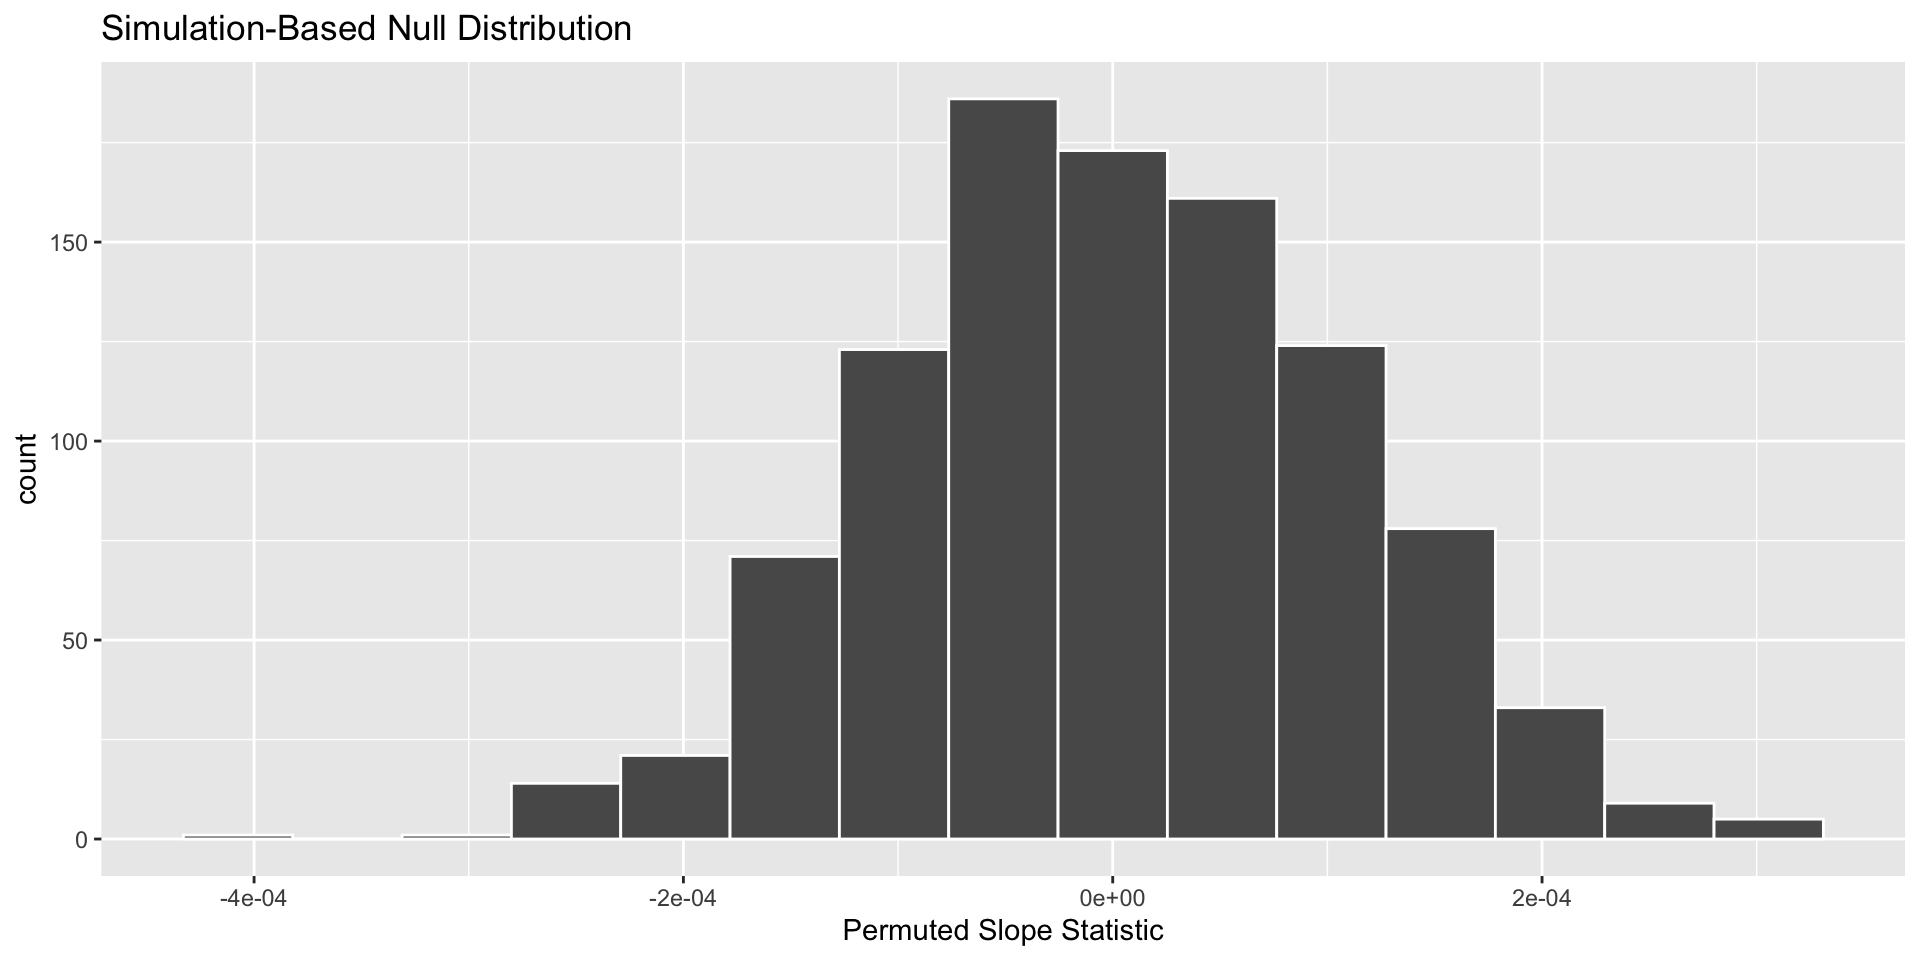
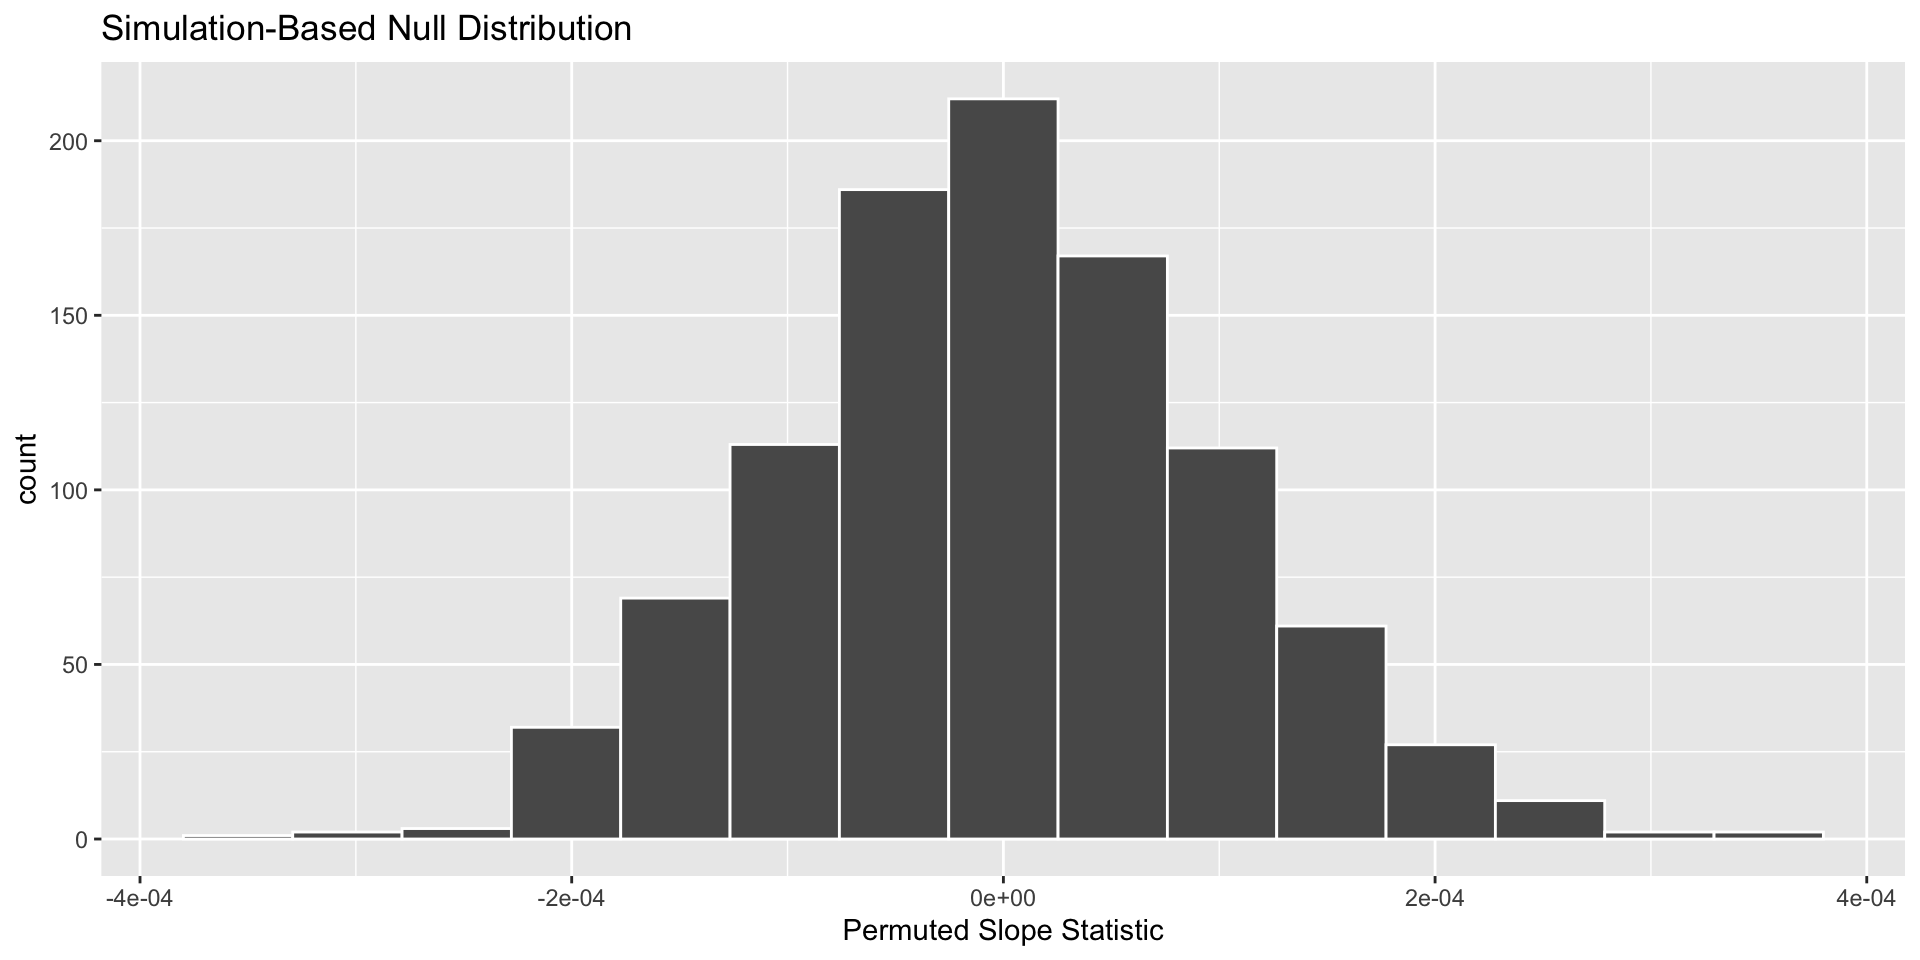
week 7 day 2 slides

diff --git a/docs/slides/week7-day2.html b/docs/slides/week7-day2.html
@@ -209,35 +209,41 @@
 <div class="column" style="width:30%;">
 <div class="fragment">
 <p><strong>Week 8</strong></p>
+<div class="small">
 <ul>
-<li>Learn about hypothesis testing for SLR &amp; MLR</li>
-<li>Compare “visual” model selection with p-value model selection</li>
+<li>Dig deeper into model conditions</li>
+<li>Learn about One-Way ANOVA</li>
+<li>Compare “visual” model selection with p-value model selection (Stat Critique #2)</li>
 </ul>
+</div>
 </div>
 </div><div class="column" style="width:30%;">
 <div class="fragment">
 <p><strong>Week 9</strong></p>
+<div class="small">
 <ul>
-<li>Learn about one-way ANOVA</li>
-<li>Get started on first portion of Final Project</li>
+<li>Learn about simulation-based and theory-based inference for one-way ANOVA</li>
+<li>First draft of Final Project</li>
 </ul>
+</div>
 </div>
 </div><div class="column" style="width:30%;">
 <div class="fragment">
 <p><strong>Week 10</strong></p>
+<div class="small">
 <ul>
 <li>Learn about two-way ANOVA</li>
-<li>Finish Final Project</li>
+<li>Finish Final Project (poster)</li>
 </ul>
+</div>
 </div>
 </div></div>
 </section>
 <section id="upcoming-deadlines" class="slide level2">
 <h2>Upcoming Deadlines</h2>
 <ul>
-<li>Lab 6 revisions are due on Wednesday (by midnight)</li>
-<li>Statistical Critique 2 is due next Monday (at 5pm)</li>
-<li>Final revisions on <strong>all</strong> assignments will be accepted until Sunday, March 17</li>
+<li>Lab 4 revisions are due on Friday (May 16)</li>
+<li>Lab 3 second revisions are due on Friday (May 16)</li>
 </ul>
 <div class="callout callout-note callout-titled callout-style-default">
 <div class="callout-body">
@@ -418,24 +424,30 @@
 <!-- add slides about HT decisions -->
 </div>
 </section>
-<section id="section-4" class="slide level2">
-<h2></h2>
-<div style="font-size: 3em; color: #000000;">
-<p>Your turn!</p>
-</div>
-<div style="font-size: 1.5em; color: #000000;">
-<p><strong>What is one similarity and one difference between</strong></p>
-</div>
+<section id="what-is-one-similarity-and-one-difference-between-a-permutation-distribution-and-a-bootstrap-distribution" class="slide level2">
+<h2>What is one similarity and one difference between a permutation distribution and a bootstrap distribution?</h2>
 <div class="columns">
 <div class="column" style="width:45%;">
-<div style="font-size: 1.5em; color: #76b5c5;">
-<p>a permutation distribution</p>
+<div style="font-size: 1.5em;">
+<p>Similarity</p>
+</div>
+<div class="small">
+<p>Distributions of sample statistics</p>
+<p>Use resampling to see variability</p>
+<p>Approximate a sampling distribution</p>
+<p>Use observed data</p>
 </div>
 </div><div class="column" style="width:5%;">
 
 </div><div class="column" style="width:45%;">
-<div style="font-size: 1.5em; color: #e28743;">
-<p>a bootstrap distribution</p>
+<div class="fragment">
+<div style="font-size: 1.5em;">
+<p>Difference</p>
+</div>
+<div class="small">
+<p>Permutation distributions assume <span class="math inline">\(H_0\)</span> is true</p>
+<p>Bootstrapping resamples with replacement</p>
+</div>
 </div>
 </div></div>
 </section>
@@ -451,7 +463,7 @@
 <p><code>stem_dry_mass</code>: a number denoting the dry mass of the stem in grams</p>
 </div></div>
 </section>
-<section id="section-5" class="slide level2">
+<section id="section-4" class="slide level2">
 <h2></h2>
 
 <img data-src="week7-day2_files/figure-revealjs/seedlings-slr-1.png" width="960" class="r-stretch"><div class="fragment">
@@ -541,30 +553,15 @@
 </div></div>
 </div>
 </section>
-<section id="dont-worry" class="slide level2">
-<h2>Don’t worry,</h2>
-<p><code>infer</code> will let you know if you missed something!</p>
+<section id="step-4-calculate-your-statistics" class="slide level2">
+<h2>Step 4: Calculate your statistics!</h2>
 <div class="cell">
 <div class="sourceCode cell-code" id="cb4"><pre class="sourceCode numberSource r number-lines code-with-copy"><code class="sourceCode r"><span id="cb4-1"><a></a>hbr_maples <span class="sc">%&gt;%</span> </span>
 <span id="cb4-2"><a></a>  <span class="fu">specify</span>(<span class="at">response =</span> stem_dry_mass,</span>
 <span id="cb4-3"><a></a>          <span class="at">explanatory =</span> stem_length) <span class="sc">%&gt;%</span> </span>
-<span id="cb4-4"><a></a>  <span class="fu">generate</span>(<span class="at">reps =</span> <span class="dv">1000</span>, <span class="at">type =</span> <span class="st">"permute"</span>)</span></code><button title="Copy to Clipboard" class="code-copy-button"><i class="bi"></i></button></pre></div>
-</div>
-<p><br></p>
-<pre><code>Error: Permuting should be done only when doing independence hypothesis test. See `hypothesize()`.
-In addition: Warning message:
-You have given `type = "permute"`, but `type` is expected to be `"bootstrap"`.
-This workflow is untested and the results may not mean what you think they mean. </code></pre>
-</section>
-<section id="step-4-calculate-your-statistics" class="slide level2">
-<h2>Step 4: Calculate your statistics!</h2>
-<div class="cell">
-<div class="sourceCode cell-code" id="cb6"><pre class="sourceCode numberSource r number-lines code-with-copy"><code class="sourceCode r"><span id="cb6-1"><a></a>hbr_maples <span class="sc">%&gt;%</span> </span>
-<span id="cb6-2"><a></a>  <span class="fu">specify</span>(<span class="at">response =</span> stem_dry_mass,</span>
-<span id="cb6-3"><a></a>          <span class="at">explanatory =</span> stem_length) <span class="sc">%&gt;%</span> </span>
-<span id="cb6-4"><a></a>  <span class="fu">hypothesize</span>(<span class="at">null =</span> <span class="st">"independence"</span>) <span class="sc">%&gt;%</span> </span>
-<span id="cb6-5"><a></a>  <span class="fu">generate</span>(<span class="at">reps =</span> <span class="dv">1000</span>, <span class="at">type =</span> <span class="st">"permute"</span>) <span class="sc">%&gt;%</span> </span>
-<span id="cb6-6"><a></a>  <span class="fu">calculate</span>(<span class="at">stat =</span> <span class="st">"slope"</span>) </span></code><button title="Copy to Clipboard" class="code-copy-button"><i class="bi"></i></button></pre></div>
+<span id="cb4-4"><a></a>  <span class="fu">hypothesize</span>(<span class="at">null =</span> <span class="st">"independence"</span>) <span class="sc">%&gt;%</span> </span>
+<span id="cb4-5"><a></a>  <span class="fu">generate</span>(<span class="at">reps =</span> <span class="dv">1000</span>, <span class="at">type =</span> <span class="st">"permute"</span>) <span class="sc">%&gt;%</span> </span>
+<span id="cb4-6"><a></a>  <span class="fu">calculate</span>(<span class="at">stat =</span> <span class="st">"slope"</span>) </span></code><button title="Copy to Clipboard" class="code-copy-button"><i class="bi"></i></button></pre></div>
 </div>
 </section>
 <section id="your-turn" class="slide level2">
@@ -576,27 +573,33 @@ This workflow is untested and the results may not mean what you think they mean.
 <section id="the-final-product" class="slide level2">
 <h2>The final product</h2>
 <div class="cell">
-<div class="sourceCode cell-code" id="cb7"><pre class="sourceCode numberSource r number-lines code-with-copy"><code class="sourceCode r"><span id="cb7-1"><a></a><span class="fu">visualise</span>(null_dist) <span class="sc">+</span> </span>
-<span id="cb7-2"><a></a>  <span class="fu">labs</span>(<span class="at">x =</span> <span class="st">"Permuted Slope Statistic"</span>)</span></code><button title="Copy to Clipboard" class="code-copy-button"><i class="bi"></i></button></pre></div>
+<div class="sourceCode cell-code" id="cb5"><pre class="sourceCode numberSource r number-lines code-with-copy"><code class="sourceCode r"><span id="cb5-1"><a></a><span class="fu">visualise</span>(null_dist) <span class="sc">+</span> </span>
+<span id="cb5-2"><a></a>  <span class="fu">labs</span>(<span class="at">x =</span> <span class="st">"Permuted Slope Statistic"</span>)</span></code><button title="Copy to Clipboard" class="code-copy-button"><i class="bi"></i></button></pre></div>
 
 </div>
 <img data-src="week7-day2_files/figure-revealjs/null-dist-1.png" style="width:70.0%" class="r-stretch"></section>
 <section id="is-our-observed-statistic-unlikely-if-the-null-hypothesis-was-true" class="slide level2">
 <h2>Is our observed statistic unlikely if the null hypothesis was true?</h2>
 <div class="cell">
-<div class="sourceCode cell-code" id="cb8"><pre class="sourceCode numberSource r number-lines code-with-copy"><code class="sourceCode r"><span id="cb8-1"><a></a><span class="fu">visualise</span>(null_dist) <span class="sc">+</span></span>
-<span id="cb8-2"><a></a>  <span class="fu">shade_p_value</span>(<span class="at">obs_stat =</span> obs_slope, </span>
-<span id="cb8-3"><a></a>                <span class="at">direction =</span> <span class="st">"two-sided"</span>) <span class="sc">+</span></span>
-<span id="cb8-4"><a></a>  <span class="fu">labs</span>(<span class="at">x =</span> <span class="st">"Permuted Slope Statistic"</span>)</span></code><button title="Copy to Clipboard" class="code-copy-button"><i class="bi"></i></button></pre></div>
+<div class="sourceCode cell-code" id="cb6"><pre class="sourceCode numberSource r number-lines code-with-copy"><code class="sourceCode r"><span id="cb6-1"><a></a><span class="fu">visualise</span>(null_dist) <span class="sc">+</span></span>
+<span id="cb6-2"><a></a>  <span class="fu">xlim</span>(<span class="fu">c</span>(<span class="sc">-</span><span class="fl">0.0011</span>, <span class="fl">0.0011</span>)) <span class="sc">+</span></span>
+<span id="cb6-3"><a></a>  <span class="fu">shade_p_value</span>(<span class="at">obs_stat =</span> obs_slope, </span>
+<span id="cb6-4"><a></a>                <span class="at">direction =</span> <span class="st">"two-sided"</span>) <span class="sc">+</span></span>
+<span id="cb6-5"><a></a>  <span class="fu">labs</span>(<span class="at">x =</span> <span class="st">"Permuted Slope Statistic"</span>)</span></code><button title="Copy to Clipboard" class="code-copy-button"><i class="bi"></i></button></pre></div>
 
 </div>
 <img data-src="week7-day2_files/figure-revealjs/null-dist-with-obs-slope-1.png" width="960" class="r-stretch"></section>
+<section id="two-sided-alternative" class="slide level2">
+<h2>Two-sided Alternative</h2>
+<p>If our alternative hypothesis is two-sided, what is missing from the plot?</p>
+
+<img data-src="week7-day2_files/figure-revealjs/null-dist-with-obs-slope-2-1.png" class="quarto-figure quarto-figure-center r-stretch" width="960"></section>
 <section id="the-p-value-is" class="slide level2">
 <h2>The p-value is…</h2>
 <div class="cell">
-<div class="sourceCode cell-code" id="cb9"><pre class="sourceCode numberSource r number-lines code-with-copy"><code class="sourceCode r"><span id="cb9-1"><a></a><span class="fu">get_p_value</span>(null_dist, </span>
-<span id="cb9-2"><a></a>            <span class="at">obs_stat =</span> obs_slope, </span>
-<span id="cb9-3"><a></a>            <span class="at">direction =</span> <span class="st">"two-sided"</span>) </span></code><button title="Copy to Clipboard" class="code-copy-button"><i class="bi"></i></button></pre></div>
+<div class="sourceCode cell-code" id="cb7"><pre class="sourceCode numberSource r number-lines code-with-copy"><code class="sourceCode r"><span id="cb7-1"><a></a><span class="fu">get_p_value</span>(null_dist, </span>
+<span id="cb7-2"><a></a>            <span class="at">obs_stat =</span> obs_slope, </span>
+<span id="cb7-3"><a></a>            <span class="at">direction =</span> <span class="st">"two-sided"</span>) </span></code><button title="Copy to Clipboard" class="code-copy-button"><i class="bi"></i></button></pre></div>
 <div class="cell-output cell-output-stderr">
 <pre><code>Warning: Please be cautious in reporting a p-value of 0. This result is an approximation
 based on the number of `reps` chosen in the `generate()` step.
@@ -631,69 +634,108 @@ based on the number of `reps` chosen in the `generate()` step.
 </blockquote>
 </div>
 </section>
-<section id="classic-interpretation-mistakes" class="slide level2">
-<h2>Classic interpretation mistakes</h2>
-<p><br></p>
-<blockquote>
-<p>“The probability that the null hypothesis is true is about 0%.”</p>
-</blockquote>
+<section id="decision-versus-conclusion" class="slide level2">
+<h2>Decision versus Conclusion</h2>
+<div class="columns">
+<div class="column" style="width:47%;">
+<p><span style="font-size: 1.5em;"><strong>Decision</strong></span></p>
 <div class="fragment">
-<div style="font-size: 1.25em; color: #ed8402;">
-<p>You assume the null is true when you calculate a p-value!</p>
+<p>At an <span class="math inline">\(\alpha\)</span> of 0.05 and a p-value of less than 0.001, we would reject <span class="math inline">\(H_0\)</span>.</p>
 </div>
-<!-- add slide about HT decision / conclusion -->
+</div><div class="column" style="width:5%;">
+
+</div><div class="column" style="width:47%;">
+<div class="fragment">
+<p><span style="font-size: 1.5em;"><strong>Conclusion</strong></span></p>
+<p>We conclude that there is a linear relationship between the stem length and stem dry mass for sugar maples in the Hubbard Brook Experimental Forest.</p>
+</div>
+</div></div>
 <!-- add slide about why we choose 0.05 versus 0.01 -->
-<!-- add slide about why we use != instead of > or < -->
-</div>
 </section></section>
 <section>
-<section id="grade-check-in" class="title-slide slide level1 center">
-<h1>Grade Check-in</h1>
+<section id="lab-7" class="title-slide slide level1 center">
+<h1>Lab 7</h1>
 
 </section>
-<section id="midterm-projects-study-limitations" class="slide level2">
-<h2>Midterm Projects – Study Limitations</h2>
-<p><br></p>
-<p>You must <strong>justify</strong> why you believe you can infer onto a population larger than your sample!</p>
-<div class="fragment">
-<p><br></p>
-<p>Causal statements <strong>do not</strong> come from random / representative samples!</p>
+<section id="todays-data" class="slide level2">
+<h2>Today’s Data</h2>
+<div class="columns">
+<div class="column" style="width:65%;">
+<div class="small">
+<blockquote>
+<p>“One of the best-known patterns in biogeography is Bergmann’s rule. It predicts that organisms at higher latitudes are larger than ones at lower latitudes. Many organisms follow Bergmann’s rule, including insects, birds, snakes, marine invertebrates, and &gt; terrestrial and marine mammals. What drives Bergmann’s rule? Bergmann originally hypothesized that the organisms he studied, birds, were larger in the colder, higher latitudes due to heat-conservation. But the heat-conservation hypothesis relies on internal regulation of body temperature and therefore <u>does not apply to ectotherms</u>, some of which also follow Bergmann’s rule.”</p>
+</blockquote>
+</div>
+</div><div class="column" style="width:5%;">
+
+</div><div class="column" style="width:30%;">
+<p><img data-src="images/fiddler-crab.jpg" alt="A fiddler crab on wet, muddy ground. The crab has one large, pale claw and one much smaller claw, with a shiny carapace and stalked eyes."></p>
+</div></div>
+</section>
+<section id="research-question" class="slide level2">
+<h2>Research Question</h2>
+<p><br> <br></p>
+<div class="centered">
+<blockquote>
+<p>What is the relationship between a Fiddler Crab’s body size (carapace width) and the latitude in which it lives?</p>
+</blockquote>
 </div>
 </section>
-<section id="midterm-project-grades" class="slide level2">
-<h2>Midterm Project Grades</h2>
+<section id="accessing-lab-7" class="slide level2">
+<h2>Accessing Lab 7</h2>
+<div class="midi">
+<p><strong>Step 1:</strong> Both members of your group need to join your <strong>group</strong> workspace (link posted in the Announcements of your group)</p>
+</div>
+<div class="fragment">
 <div class="small">
-<table class="caption-top">
-<colgroup>
-<col style="width: 25%">
-<col style="width: 25%">
-<col style="width: 25%">
-<col style="width: 25%">
-</colgroup>
-<thead>
-<tr class="header">
-<th><strong>Excellent Project</strong></th>
-<th><strong>Satisfactory Project</strong></th>
-<th><strong>Progressing Project</strong></th>
-<th><strong>No Credit</strong></th>
-</tr>
-</thead>
-<tbody>
-<tr class="odd">
-<td>At most one section is marked “Satisfactory” the remainder are marked “Excellent”</td>
-<td>At most one section is marked “Progressing” the remainder are marked “Satisfactory” or “Excellent”</td>
-<td>At most two sections are marked “Progressing” the remainder are marked “Satisfactory”</td>
-<td>At most one section is marked “Satisfactory” or “Excellent” the remainder are marked “Progressing”</td>
-</tr>
-</tbody>
-</table>
+<div class="callout callout-note callout-titled callout-style-default">
+<div class="callout-body">
+<div class="callout-title">
+<div class="callout-icon-container">
+<i class="callout-icon"></i>
+</div>
+<p><strong>Roles</strong></p>
+</div>
+<div class="callout-content">
+<p>You will be trading off roles in the middle of the lab! One person will do the hypothesis test coding and one person will do the confidence interval coding!</p>
+</div>
+</div>
+</div>
+</div>
+</div>
+<div class="fragment">
+<div class="midi">
+<p><strong>Step 2:</strong> One member of your group needs to <a href="https://scribehow.com/shared/Copying_the_Lab_to_Your_Group_Workspace__Q3uBlpp_TBWRZzVJmCjbsA">follow these instructions to copy the Lab 7 project into your group’s workspace</a></p>
+</div>
+</div>
+<div class="fragment">
+<div class="midi">
+<p><strong>Step 3:</strong> Both members open the Lab 7 assignment in your group workspace!</p>
+</div>
+</div>
+<div class="fragment">
+<div class="midi">
+<p><strong>Step 4:</strong> Follow the <a href="https://scribehow.com/shared/Enabling_Collaborative_Editing_in_Posit_Cloud__ylk0d72IQfipwem_lfynlw">final instructions</a> to activate collaborative editing in the document.</p>
+</div>
+<div class="small">
+<div class="callout callout-important callout-titled callout-style-default">
+<div class="callout-body">
+<div class="callout-title">
+<div class="callout-icon-container">
+<i class="callout-icon"></i>
+</div>
+<p><strong>Source Editor</strong></p>
+</div>
+<div class="callout-content">
+<p>You need to be in the source editor (not the pretty one) to use collaborative editing!</p>
+</div>
+</div>
+</div>
+</div>
+
+
 </div>
 </section></section>
-<section id="grade-check-in-activity" class="title-slide slide level1 center">
-<h1><a href="../activity/week-8-grade-check.docx" title="Grade Check-in Activity">Grade Check-in Activity</a></h1>
-
-
-</section>
     </div>
   <div class="quarto-auto-generated-content" style="display: none;">
 <div class="footer footer-default">
